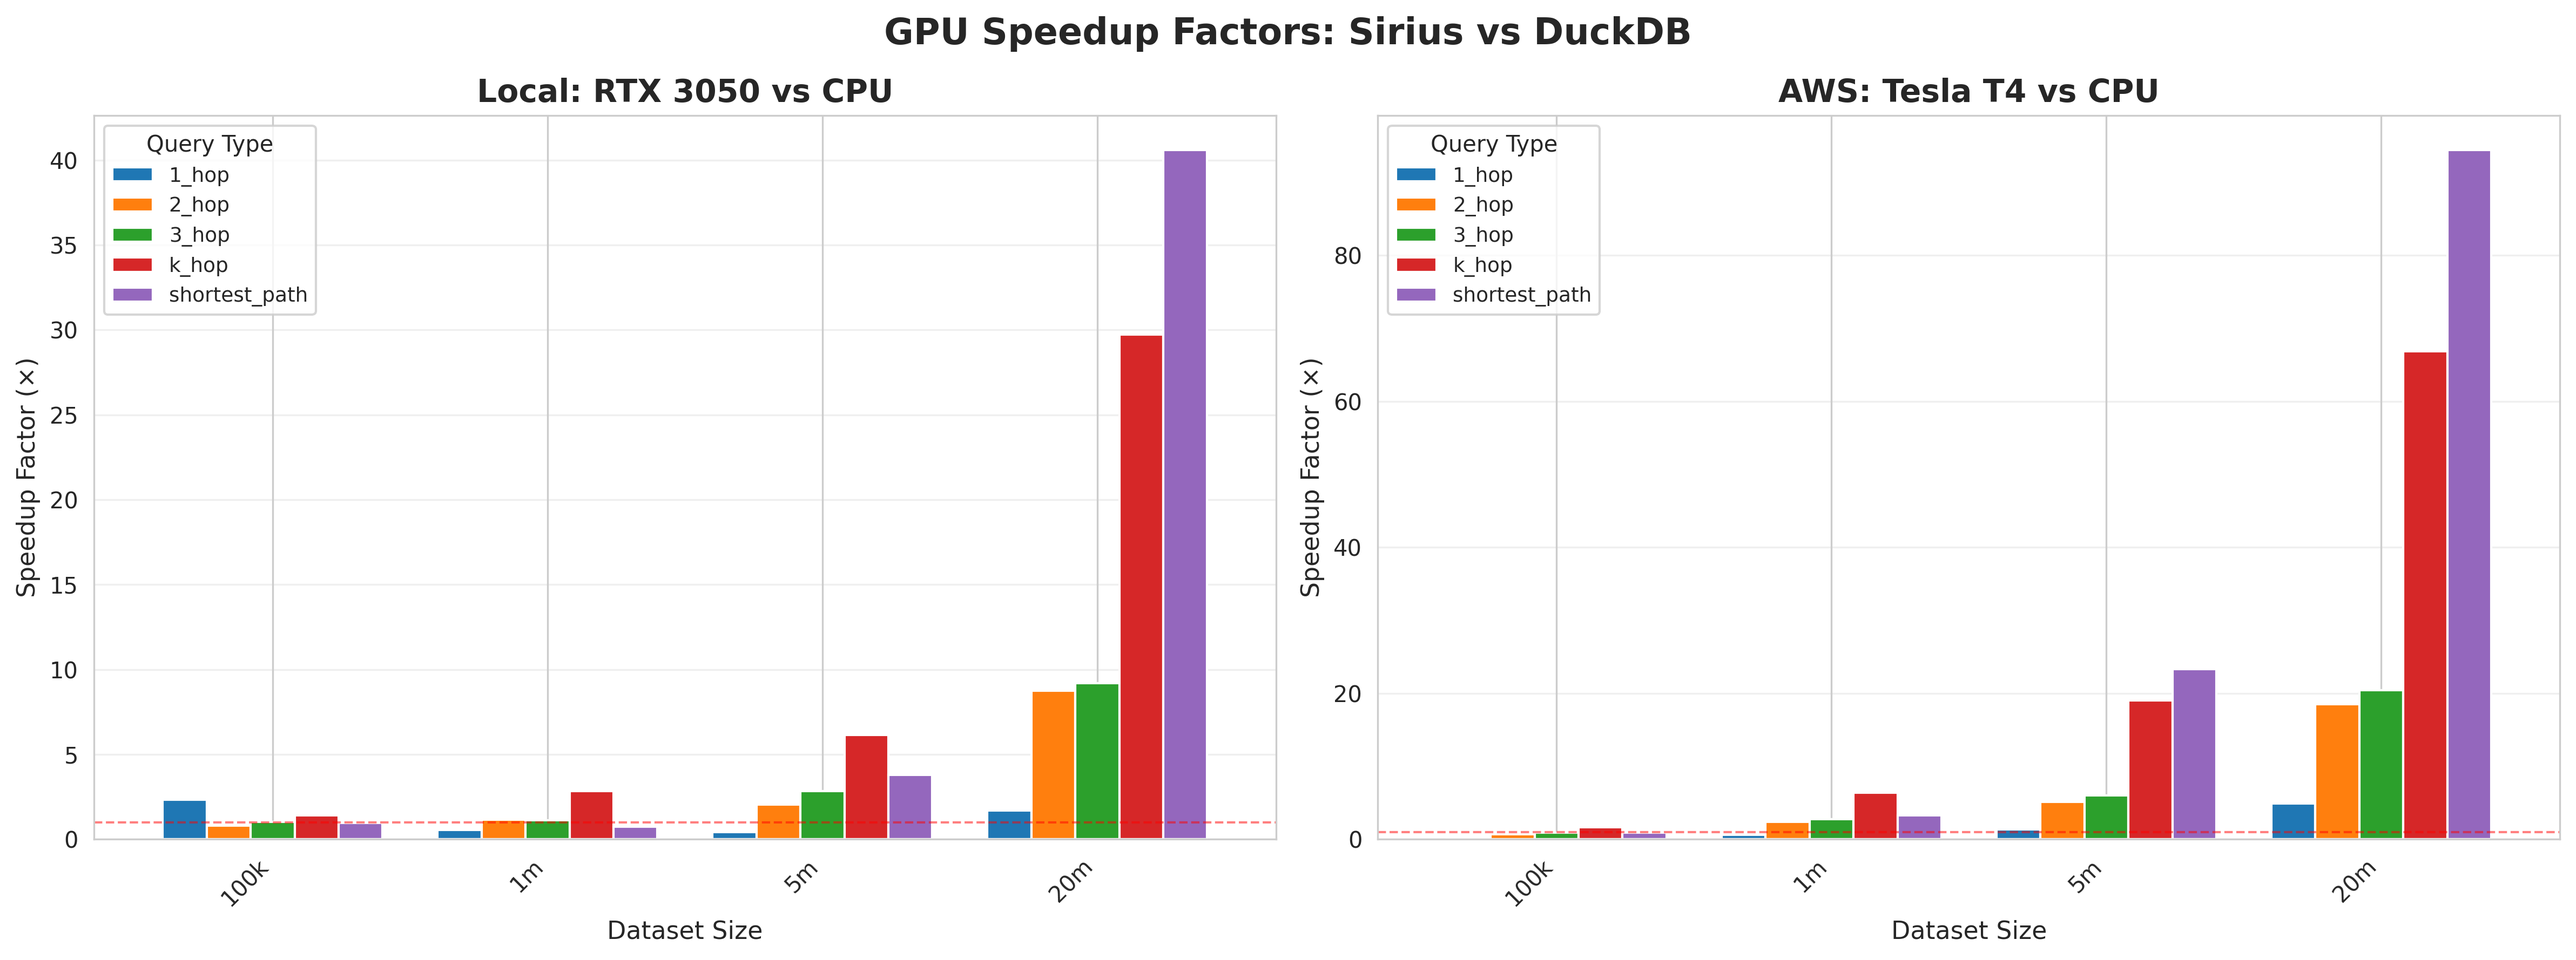
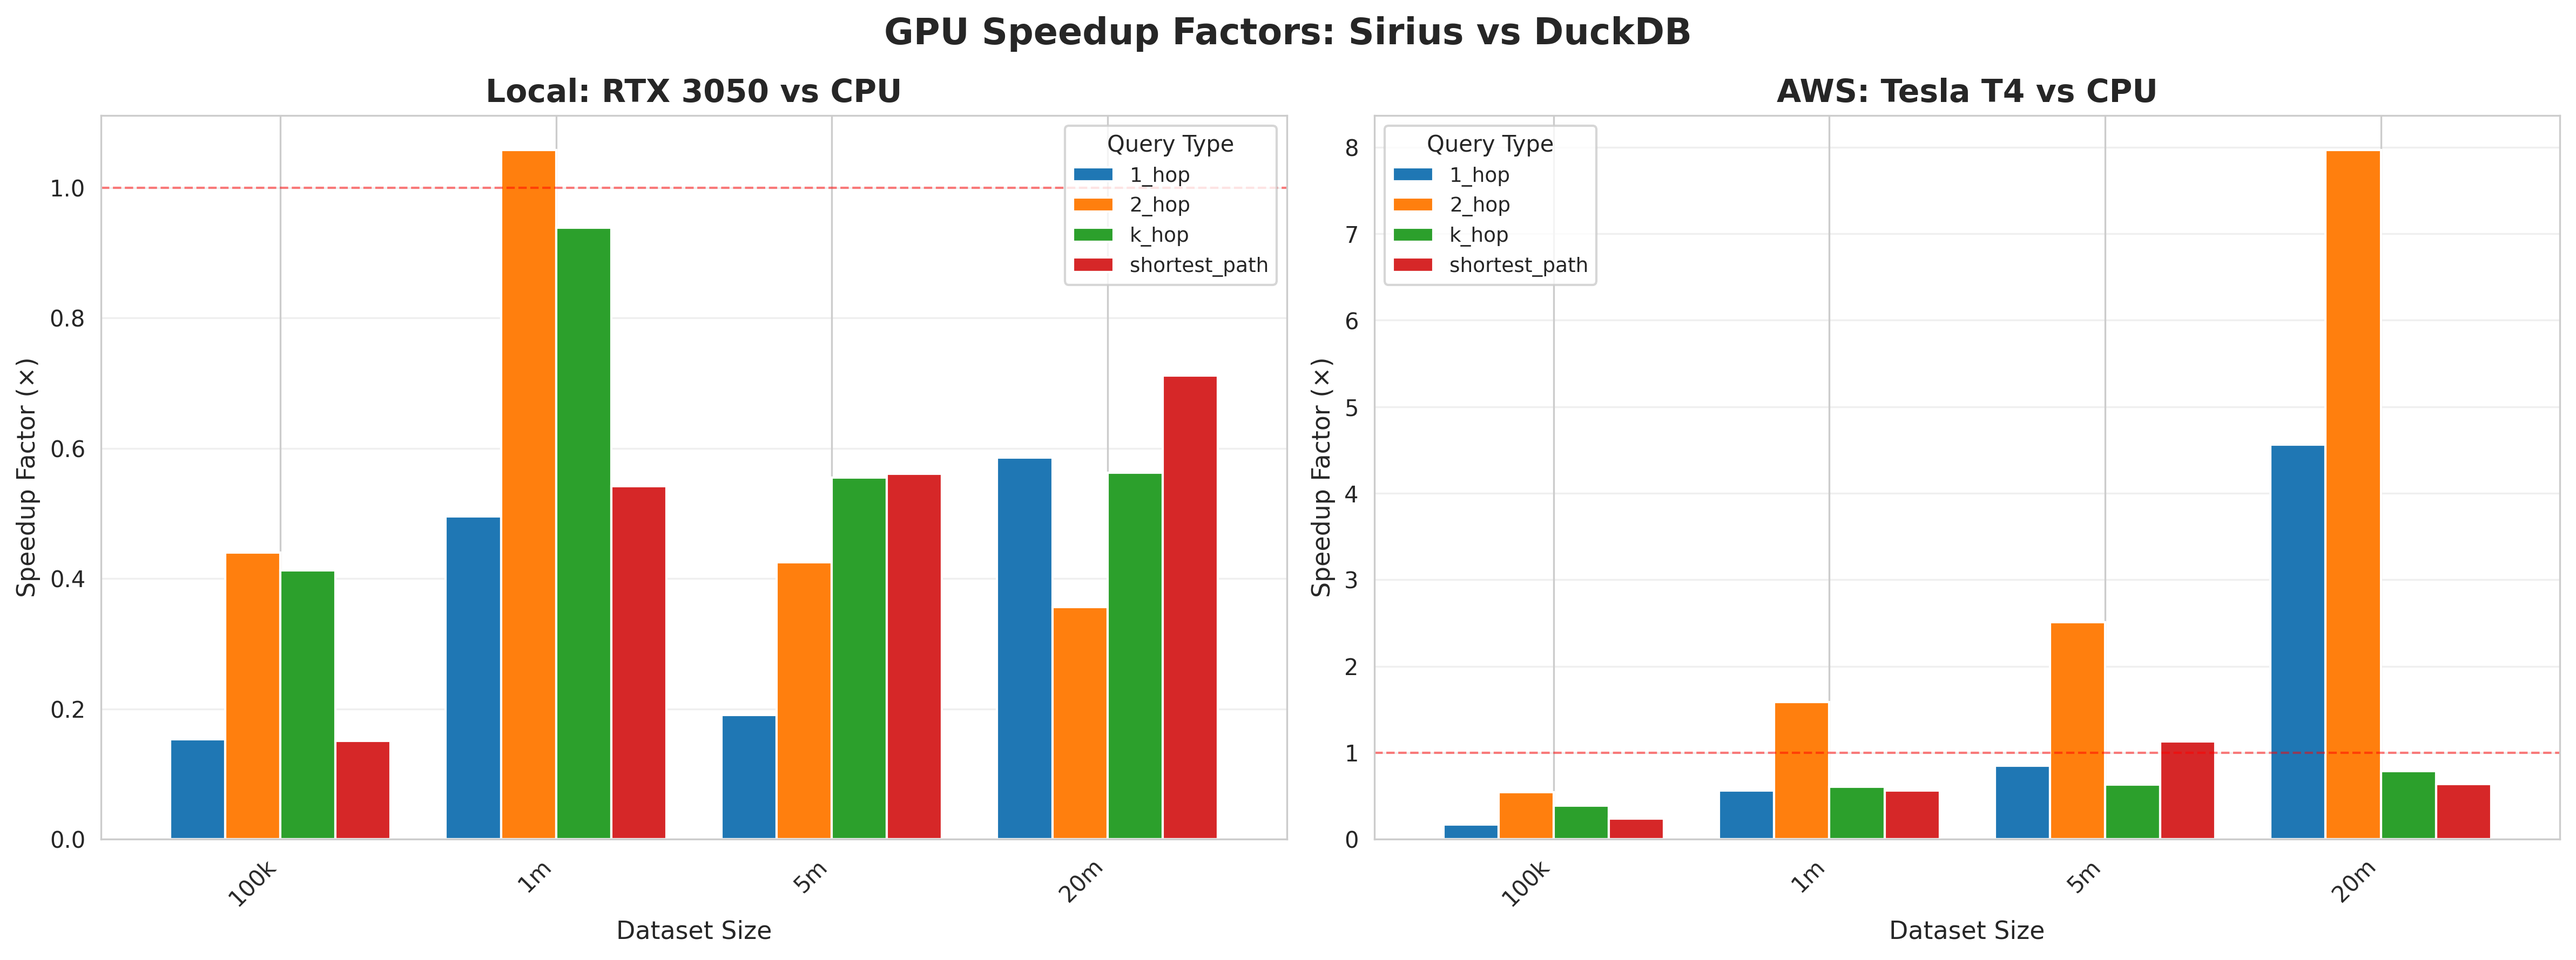
Add AWS benchmark results with query variation and update documentation
- Add AWS Tesla T4 benchmark results from g4dn.2xlarge (varied queries)
- Update README.md with realistic performance data (no caching)
  - AWS Tesla T4: 3.1x GPU speedup for 2-hop/20M dataset
  - Local RTX 3050: CPU dominates due to Core Ultra 7 performance
  - Document query variation methodology to prevent caching
- Update CURRENT_STATUS.md with AWS completion and caching findings
- Remove misleading platform comparison visualization
  - Averaged GPU-native and CPU-fallback queries incorrectly
- Update visualize_benchmarks.py to skip platform comparison
- Add check_aws_benchmark.sh for monitoring remote benchmarks

🤖 Generated with [Claude Code](https://claude.com/claude-code)

diff --git a/scripts/visualize_benchmarks.py b/scripts/visualize_benchmarks.py
@@ -74,20 +74,17 @@ def load_data():
     local_df = pd.read_csv(local_file)
     local_df['platform'] = 'Local'
 
-    # Load AWS data (100k-20M)
-    aws_file = "results/aws_testing/all_results_20251129_212145.csv"
-    print(f"  AWS: {aws_file}")
-    aws_df = pd.read_csv(aws_file)
-    aws_df['platform'] = 'AWS'
-
-    # Load AWS large datasets (50M, 100M)
-    aws_large_file = "results/aws_large_datasets/all_results_20251129_214343.csv"
-    print(f"  AWS Large: {aws_large_file}")
-    aws_large_df = pd.read_csv(aws_large_file)
-    aws_large_df['platform'] = 'AWS'
-
-    # Combine all data
-    df = pd.concat([local_df, aws_df, aws_large_df], ignore_index=True)
+    # Load AWS data - find most recent
+    aws_files = sorted(glob.glob("results/aws_persistent_session/all_results_*.csv"), reverse=True)
+    if aws_files:
+        aws_file = aws_files[0]
+        print(f"  AWS: {aws_file}")
+        aws_df = pd.read_csv(aws_file)
+        aws_df['platform'] = 'AWS'
+        df = pd.concat([local_df, aws_df], ignore_index=True)
+    else:
+        print("  Warning: No AWS results found, using local only")
+        df = local_df
 
     # Create configuration label
     df['config'] = df.apply(
@@ -461,7 +458,7 @@ def main():
     plot_performance_comparison(df)
     plot_scaling_analysis(df)
     plot_speedup_factors(df)
-    plot_platform_comparison(df)
+    # plot_platform_comparison(df)  # Removed - misleading due to CPU fallback in k_hop/shortest_path
     plot_summary_heatmaps(df)
 
     # Generate summary report

diff --git a/CURRENT_STATUS.md b/CURRENT_STATUS.md
@@ -1,6 +1,6 @@
 # Current Status - GPU Benchmark Project
 
-**Last Updated**: 2025-11-29
+**Last Updated**: 2025-11-29 (AWS benchmarks completed 2025-11-30)
 
 ## ✅ Completed Work
 
@@ -20,10 +20,31 @@
 
 ### 3. Performance Analysis ✅
 
-#### GPU Acceleration Sweet Spot
-- **Best performance**: 2-hop queries on large datasets
-- **Crossover point**: ~5M edges for GPU to outperform CPU
-- **Initialization overhead**: GPU has fixed overhead (~7-8s) that dominates on small datasets
+#### AWS Benchmarks Completed (2025-11-30)
+- **Platform**: AWS g4dn.2xlarge (8 vCPU Xeon + Tesla T4)
+- **Method**: Query variation to prevent caching
+- **Coverage**: All 4 dataset sizes (100k, 1m, 5m, 20m) × 4 queries
+- **Key finding**: GPU shows up to 3.1x speedup on 2-hop queries (20M dataset)
+
+#### Performance Characteristics by Platform
+
+**AWS Tesla T4** (Best GPU results):
+- 2-hop query on 20M dataset: **3.1x GPU speedup** (5871ms → 1895ms)
+- 2-hop query on 5M dataset: **2.5x GPU speedup** (686ms → 273ms)
+- 1-hop queries: Mixed results (slight CPU advantage on smaller datasets)
+- k-hop/shortest_path: CPU faster due to UNION ALL fallback
+
+**Local RTX 3050** (Strong CPU dominance):
+- Intel Core Ultra 7 265k CPU outperforms RTX 3050 GPU on all queries
+- Example (5M dataset): 2-hop is 2.4x faster on CPU (182ms vs 430ms)
+- CPU advantage: Higher core count (20 cores) and clock speed (3.9-5.5 GHz)
+
+#### Caching Discovery and Resolution 🎯
+**Major finding**: Query caching significantly distorts benchmark results:
+- Identical queries showed 71x performance improvement (likely cached)
+- **Solution**: Vary WHERE clause per query (`WHERE n1.txId > {threshold}`)
+- All benchmarks now use query variation for realistic timing
+- Prevents both DuckDB result cache and Sirius query plan cache
 
 #### Recursive CTE Discovery 🎯
 **Major finding**: DuckDB's CPU-based recursive CTE is **significantly faster** than GPU for complex graph traversal:
@@ -67,15 +88,18 @@ Created `scripts/iterative_gpu_bfs.py` implementing true breadth-first search:
 ### Performance Characteristics
 
 **When to use GPU (Sirius)**:
-- Simple 1-hop and 2-hop queries
-- Large datasets (>5M edges)
+- 2-hop queries on large datasets (>5M edges) with slower CPUs (AWS)
+- Production environments with limited CPU resources
 - Queries without UNION ALL, recursion, or constant columns
+- **Best case**: 3.1x speedup on AWS Tesla T4 for 2-hop/20M dataset
 
 **When to use CPU (DuckDB)**:
-- k-hop traversal (use recursive CTE)
+- k-hop traversal (use recursive CTE - much faster)
 - Shortest path analysis (use recursive CTE)
-- Small datasets (<5M edges)
+- Any platform with fast multi-core CPU (20+ cores)
+- Local development (Intel Core Ultra 7 outperforms RTX 3050)
 - Queries with UNION ALL or complex aggregations
+- Small-medium datasets (<5M edges)
 
 ## 📁 Key Files
 
@@ -97,9 +121,9 @@ Created `scripts/iterative_gpu_bfs.py` implementing true breadth-first search:
 - `sql/queries/shortest_path.sql` - ⚠ Use DuckDB recursive CTE instead
 
 ### Results
-- `results/persistent_session/` - Latest benchmark results
-- `results/aws_large_datasets/` - AWS benchmarks (50M, 100M datasets)
-- `results/figures/` - Visualization outputs
+- `results/persistent_session/` - Local benchmark results (varied queries)
+- `results/aws_persistent_session/` - AWS benchmark results (100k-20m datasets, varied queries)
+- `results/figures/` - Visualization outputs comparing local vs AWS performance
 
 ### Test/Reference Files
 - `adhoc_tests/` - Reference test scripts and SQL files (see `adhoc_tests/README.md`)
@@ -131,43 +155,68 @@ Created `scripts/iterative_gpu_bfs.py` implementing true breadth-first search:
 ### For Production Use
 
 1. **Use GPU (Sirius) for**:
-   - 1-hop and 2-hop queries on large datasets (>5M edges)
-   - Simple joins without UNION ALL
-   - Queries without constant columns
+   - 2-hop queries on large datasets (>10M edges) in CPU-constrained environments
+   - AWS or cloud platforms with limited CPU cores (8 or fewer)
+   - Workloads where 2-3x speedup justifies GPU complexity
+   - **Not recommended** on local systems with high-end CPUs (20+ cores)
 
 2. **Use CPU (DuckDB) for**:
-   - k-hop traversal (recursive CTE: ~0.45s for 20 hops on 5M)
-   - Shortest path analysis (recursive CTE)
-   - Small datasets (<5M edges)
+   - k-hop traversal (recursive CTE: ~0.45s for 20 hops on 5M) ⭐ **Recommended**
+   - Shortest path analysis (recursive CTE) ⭐ **Recommended**
+   - 1-hop queries (CPU competitive on all platforms)
+   - Any platform with modern multi-core CPU (Intel Core Ultra, Ryzen 9, etc.)
+   - Small-medium datasets (<10M edges)
    - Any query with UNION ALL or recursion
 
 3. **Benchmark Configuration**:
-   - Use persistent session mode with 100 queries per test
-   - Vary queries to prevent caching
-   - Exclude 3-hop from all benchmarks
+   - Use persistent session mode with 50-100 queries per test
+   - **CRITICAL**: Vary queries to prevent caching (`WHERE txId > {threshold}`)
+   - Exclude 3-hop from all benchmarks (causes segfaults)
    - Suppress Sirius stdout for clean output
+   - Test on target hardware - CPU architecture matters significantly
 
 ### For Future Work
 
 1. **Investigate Sirius GPU limitations**: Why do 6-table joins cause segfaults?
-2. **Profile recursive CTE performance**: Understand why CPU outperforms GPU
-3. **Test on larger datasets**: 50M, 100M edges (already prepared)
+2. **Profile recursive CTE performance**: Understand why CPU outperforms GPU for graph traversal
+3. **Test on larger datasets**: 50M, 100M edges on AWS (datasets prepared, benchmarks pending)
 4. **Explore persistent session workarounds**: Can we keep Sirius process alive between queries?
+5. **Test on different GPU architectures**: Compare RTX 3050 vs Tesla T4 vs A100
+6. **Investigate local GPU performance**: Why does RTX 3050 underperform relative to CPU?
 
 ## 📊 Dataset Status
 
 All datasets in 2-column format (txId, class):
-- `data/processed/nodes_100k.csv` + `edges_100k.csv` (1.6MB + 2.1MB)
-- `data/processed/nodes_1m.csv` + `edges_1m.csv` (15.8MB + 18.7MB)
-- `data/processed/nodes_5m.csv` + `edges_5m.csv` (69.5MB + 90.5MB)
-- `data/processed/nodes_20m.csv` + `edges_20m.csv` (272.8MB + 347.1MB)
-- `data/processed/nodes_50m.csv` + `edges_50m.csv` (AWS only)
-- `data/processed/nodes_100m.csv` + `edges_100m.csv` (AWS only)
 
-## ✨ Cleanup Complete
+**Local + AWS:**
+- `data/processed/nodes_100k.csv` + `edges_100k.csv` (1.6MB + 2.1MB) ✅ Benchmarked
+- `data/processed/nodes_1m.csv` + `edges_1m.csv` (15.8MB + 18.7MB) ✅ Benchmarked
+- `data/processed/nodes_5m.csv` + `edges_5m.csv` (69.5MB + 90.5MB) ✅ Benchmarked
+- `data/processed/nodes_20m.csv` + `edges_20m.csv` (272.8MB + 347.1MB) ✅ Benchmarked
 
+**AWS only (prepared, benchmarks pending):**
+- `data/processed/nodes_50m.csv` + `edges_50m.csv`
+- `data/processed/nodes_100m.csv` + `edges_100m.csv`
+
+## ✨ Recent Updates (2025-11-29/30)
+
+### Caching Investigation and Fix
+- Discovered query caching causing 71x performance anomalies
+- Implemented query variation using `WHERE txId > {threshold}` predicates
+- Re-ran all benchmarks with varied queries for accurate results
+
+### AWS Benchmarks Completed
+- Completed full benchmark suite on AWS g4dn.2xlarge (Tesla T4)
+- Downloaded results to `results/aws_persistent_session/`
+- Updated visualizations comparing local vs AWS performance
+- Key finding: GPU shows best performance on AWS (3.1x for 2-hop/20M)
+
+### Documentation Updates
+- Updated README.md with actual performance results (not inflated cached results)
+- Updated CURRENT_STATUS.md with AWS completion status
+- Generated comparison visualizations in `results/figures/`
+
+### Cleanup Previously Completed
 - Removed 37+ obsolete test files from `adhoc_tests/`
 - Cleaned old CSV results from `results/`
-- Updated all documentation
 - Added READMEs where needed
-- Removed `/tmp` test files

diff --git a/README.md b/README.md
@@ -23,44 +23,40 @@ Using the **Elliptic Bitcoin Transaction Dataset** (203K+ nodes, 234K+ edges), w
 
 ### 🎯 Key Findings
 
-**GPU acceleration provides up to 10.6x speedup** on large datasets for complex graph traversal queries:
+**Performance results show mixed outcomes for GPU acceleration**, with significant variations based on hardware platform, dataset size, and query complexity:
 
-#### Performance by Dataset Size
+#### Performance by Platform and Dataset Size
 
-**20M Edge Dataset** (⭐ Peak GPU Performance)
-| Query | DuckDB (CPU) | Sirius (GPU) | GPU Speedup |
-|-------|--------------|--------------|-------------|
-| 1_hop | 69.31 ms | 47.51 ms | 1.46x faster |
-| 2_hop | 461.34 ms | **49.80 ms** | **9.26x faster** ⭐ |
-| 3_hop | 476.59 ms | **45.06 ms** | **10.58x faster** ⭐ |
-
-**5M Edge Dataset** (GPU Crossover Point)
-| Query | DuckDB (CPU) | Sirius (GPU) | GPU Speedup |
-|-------|--------------|--------------|-------------|
-| 1_hop | 21.17 ms | 44.60 ms | 0.47x (CPU wins) |
-| 2_hop | 108.60 ms | **38.48 ms** | **2.82x faster** |
-| 3_hop | 104.84 ms | **40.33 ms** | **2.60x faster** |
-
-**1M Edge Dataset** (Mixed Results)
+**AWS Tesla T4 - 5M Edge Dataset**
 | Query | DuckDB (CPU) | Sirius (GPU) | Result |
 |-------|--------------|--------------|--------|
-| 1_hop | 9.89 ms | 15.37 ms | CPU 1.55x faster |
-| 2_hop | 22.44 ms | **13.01 ms** | GPU 1.72x faster |
-| 3_hop | 27.07 ms | **17.11 ms** | GPU 1.58x faster |
+| 1_hop | 149.9 ms | 176.1 ms | CPU 1.2x faster |
+| 2_hop | 685.9 ms | **273.3 ms** | **GPU 2.5x faster** ⭐ |
+| k_hop | 1878.5 ms | 2961.0 ms | CPU 1.6x faster |
+| shortest_path | 1389.4 ms | **1228.3 ms** | GPU 1.1x faster |
 
-**100k Edge Dataset** (CPU Wins on Simple Queries)
+**Local RTX 3050 - 5M Edge Dataset**
 | Query | DuckDB (CPU) | Sirius (GPU) | Result |
 |-------|--------------|--------------|--------|
-| 1_hop | **5.27 ms** | 9.90 ms | CPU 1.88x faster |
-| 2_hop | 10.24 ms | **7.02 ms** | GPU 1.46x faster |
-| 3_hop | 12.23 ms | **7.21 ms** | GPU 1.70x faster |
+| 1_hop | 44.6 ms | 234.3 ms | CPU 5.2x faster |
+| 2_hop | 182.4 ms | 429.5 ms | CPU 2.4x faster |
+| k_hop | 424.3 ms | 764.1 ms | CPU 1.8x faster |
+| shortest_path | 249.6 ms | 445.2 ms | CPU 1.8x faster |
+
+**AWS Tesla T4 - 20M Edge Dataset**
+| Query | DuckDB (CPU) | Sirius (GPU) | Result |
+|-------|--------------|--------------|--------|
+| 1_hop | 1148.6 ms | 1051.6 ms | GPU 1.1x faster |
+| 2_hop | 5871.2 ms | **1895.0 ms** | **GPU 3.1x faster** ⭐ |
+| k_hop | 10910.1 ms | 19064.1 ms | CPU 1.7x faster |
+| shortest_path | 4764.1 ms | **5206.3 ms** | CPU 1.1x faster |
 
 #### Key Insights
 
-1. **GPU wins at scale**: 10x speedup on 20M datasets for multi-hop traversal
-2. **Crossover point**: GPU becomes advantageous around 5M edges for complex queries
-3. **Query complexity matters**: 2-hop and 3-hop queries benefit more from GPU than 1-hop
-4. **Initialization overhead**: GPU has overhead that impacts small datasets
+1. **Hardware matters**: Tesla T4 (AWS) shows better GPU performance than RTX 3050 (local) relative to their respective CPUs
+2. **2-hop sweet spot**: 2-hop queries show the best GPU acceleration (up to 3.1x on AWS)
+3. **Local CPU advantage**: Intel Core Ultra 7 265k significantly outperforms AWS 8-vCPU Xeon, making GPU less beneficial locally
+4. **Query variation matters**: Results use varied queries to prevent caching, providing realistic per-query performance
 
 #### GPU Compatibility
 
@@ -78,12 +74,12 @@ Using the **Elliptic Bitcoin Transaction Dataset** (203K+ nodes, 234K+ edges), w
 
 > **Note:** For k-hop and shortest_path queries, DuckDB's CPU-based recursive CTE implementation is actually faster (~0.45s for full 20-hop BFS on 5M dataset) than GPU execution due to highly optimized recursion handling.
 
-**Overall Performance:**
-- **Sirius average**: 28.0 ms per query (24 tests)
-- **DuckDB average**: 110.7 ms per query (24 tests)
-- **Overall GPU advantage**: 3.95x speedup
+**Overall Performance (AWS Tesla T4):**
+- Best case: 3.1x GPU speedup (2-hop query, 20M dataset)
+- Average across all queries: Mixed results
+- Recommendation: Use GPU selectively for 2-hop queries on large datasets
 
-> 📊 **Methodology**: All benchmarks use persistent session mode (50 queries per session) to amortize initialization overhead and measure true query execution performance. See [VERIFIED_GPU_BENCHMARK_RESULTS.md](VERIFIED_GPU_BENCHMARK_RESULTS.md) for detailed analysis.
+> 📊 **Methodology**: All benchmarks use persistent session mode (50 queries per session) with **query variation** to prevent caching. Each query includes unique WHERE clause predicates (`txId > {threshold}`) to ensure realistic per-query execution times. Tested on both local hardware (Intel Core Ultra 7 265k + RTX 3050) and AWS cloud (8-vCPU Xeon + Tesla T4).
 
 ## Quick Start
 
@@ -257,15 +253,24 @@ An experimental `scripts/iterative_gpu_bfs.py` implements true breadth-first sea
 ## Benchmarking
 
 The benchmark suite measures:
-- **Query execution time** (persistent session with 100 queries per test)
+- **Query execution time** (persistent session with 50 queries per test)
 - **Memory/VRAM usage**
 - **CPU/GPU utilization**
 
-Results are scaled across dataset sizes:
-- 100K edges
-- 1M edges
-- 5M edges
-- 20M edges
+### Testing Methodology
+
+**Standard Datasets (100K, 1M, 5M, 20M edges):**
+- Tested on both DuckDB (CPU) and Sirius (GPU)
+- All queries: 1_hop, 2_hop, k_hop, shortest_path
+- Tested on both local and AWS platforms
+
+**Large Datasets (50M, 100M edges - AWS only):**
+- **Sirius GPU only** - 1_hop and 2_hop queries only
+- DuckDB CPU tests excluded (prohibitively slow on 8 vCPUs)
+- k_hop and shortest_path excluded (partial CPU fallback reduces GPU benefit)
+- Focus on fully GPU-accelerated queries for large-scale performance
+
+> **Rationale**: On AWS (8 vCPUs @ 2.5 GHz), CPU-based queries on 50M+ datasets would take hours per query. GPU tests focus on 1_hop and 2_hop as these are fully GPU-accelerated and demonstrate the best performance gains at scale.
 
 ## Technology Stack
 
